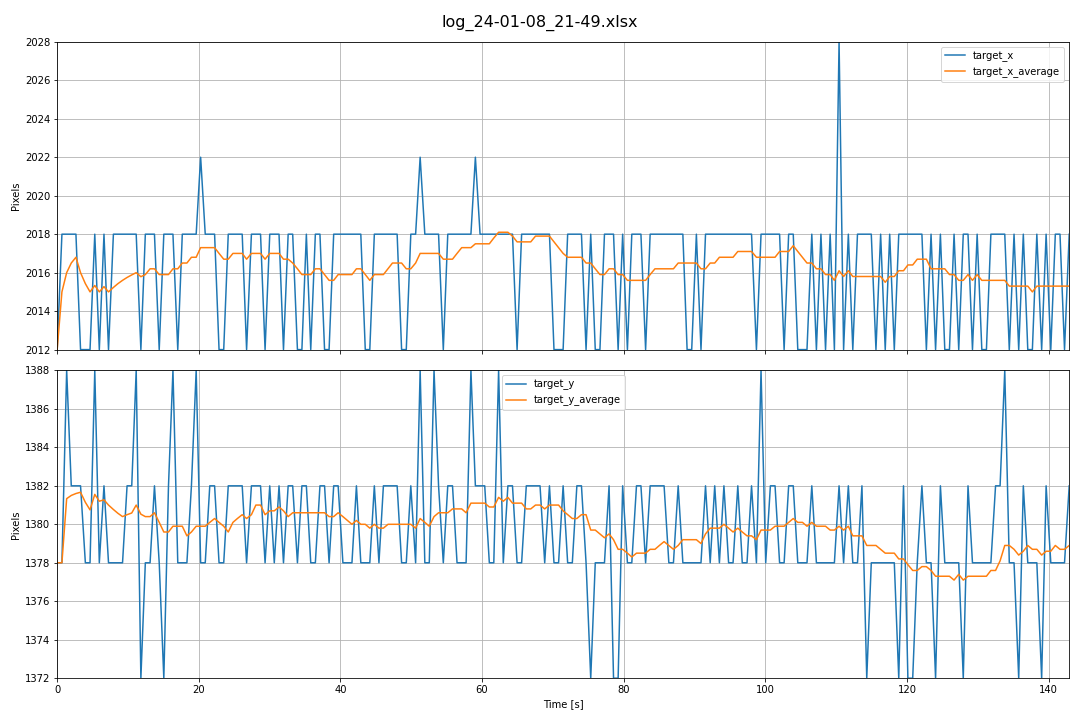
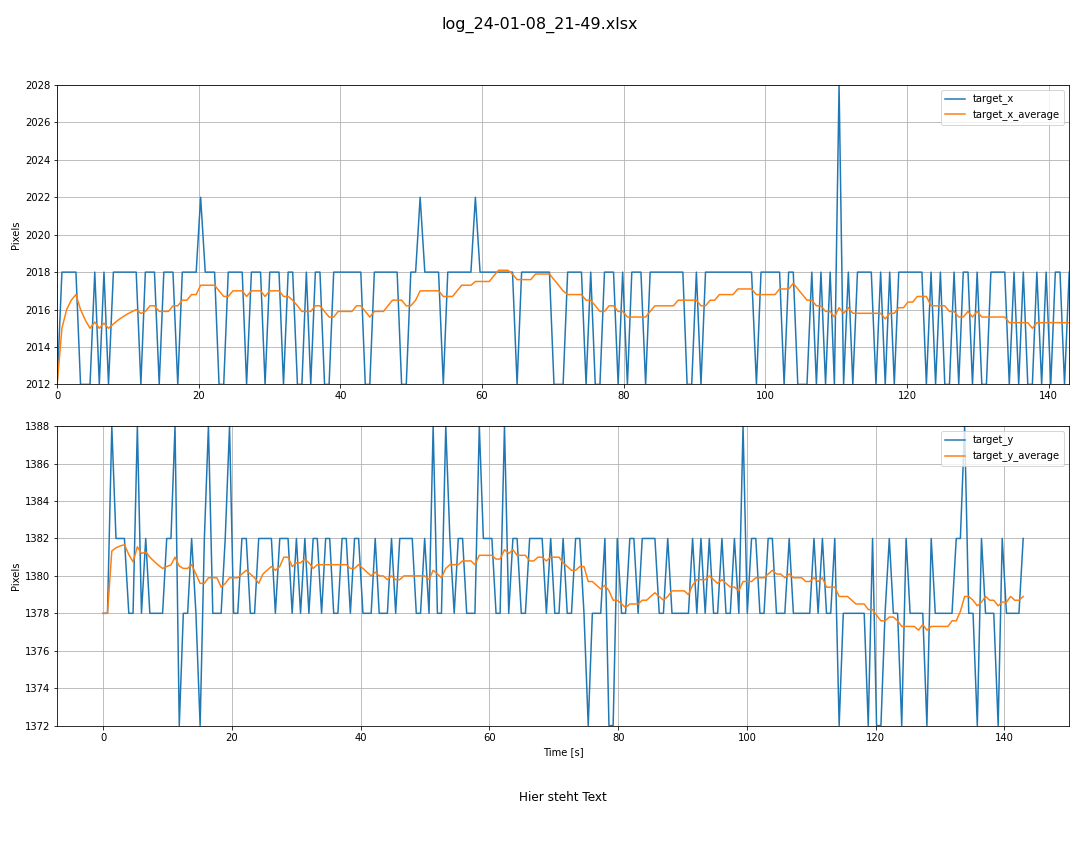
plotter now adds notes

diff --git a/Logs/plotter.py b/Logs/plotter.py
@@ -22,13 +22,17 @@ else:
 file_name = os.path.splitext(os.path.basename(excel_file))[0]
 
 # Read the selected Excel file into a DataFrame
-df = pd.read_excel(excel_file, engine='openpyxl')
+df = pd.read_excel(excel_file, sheet_name=0, engine='openpyxl')  # First sheet for the data
+
+# Get the text from the "NOTE" cell in the second sheet
+notes_df = pd.read_excel(excel_file, sheet_name=1, engine='openpyxl')  # Second sheet for the note
+note_cell = notes_df.loc[notes_df.iloc[:, 0] == "NOTE"].iloc[0, 1]
 
 # Get the column headers
 headers = list(df.columns)
 
-# Create a single figure with two subplots
-fig, (ax1, ax2) = plt.subplots(2, 1, figsize=(15, 10), sharex=True)
+# Create a single figure with three subplots (the third one is for the text box)
+fig, (ax1, ax2, ax3) = plt.subplots(3, 1, figsize=(15, 12), gridspec_kw={'height_ratios': [1, 1, 0.2]})
 
 # Extract data from columns 2, 3, 4, and 5
 x_data = df.iloc[:, 0] - df.iloc[0, 0]  # First column as x-axis
@@ -44,7 +48,7 @@ ax1.set_ylabel("Pixels")
 ax1.legend()
 ax1.grid()
 
-# Plot the second graph on the bottom subplot
+# Plot the second graph on the middle subplot
 ax2.plot(x_data, y_data3, label=headers[2])
 ax2.plot(x_data, y_data4, label=headers[4])
 ax2.set_xlabel(headers[0] + " [s]")
@@ -58,10 +62,14 @@ ax2.set_ylim(min(min(y_data3), min(y_data4)), max(max(y_data3), max(y_data4)))
 ax1.set_xlim(min(x_data), max(x_data))
 
 # Set the title for the entire sheet
-fig.suptitle(file_name+".xlsx", fontsize=16)
+fig.suptitle(file_name + ".xlsx", fontsize=16)
+
+# Use the third subplot ax3 for the text box, remove its axes
+ax3.axis('off')
+ax3.text(0.5, 0.5, str(note_cell), ha='center', va='center', fontsize=12, wrap=True)
 
 # Adjust spacing between subplots
-plt.tight_layout()
+plt.tight_layout(rect=[0, 0.03, 1, 0.95])  # Adjust the rect as necessary
 
 # Save the entire sheet plot to a file with the same name as the Excel file
 plt.savefig(os.path.join(script_directory, f"{file_name}.png"))
